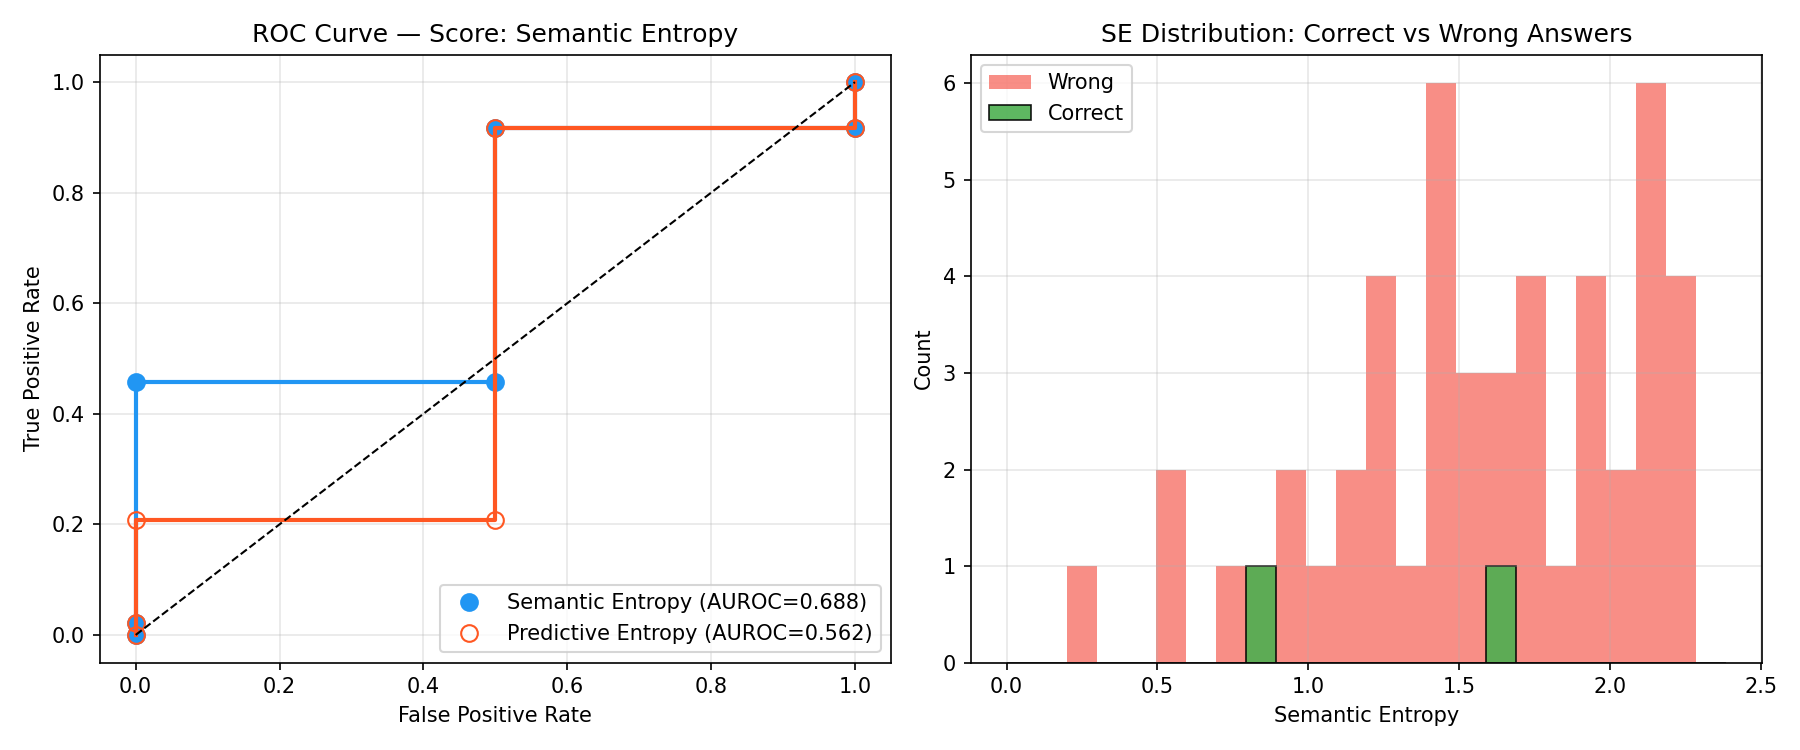
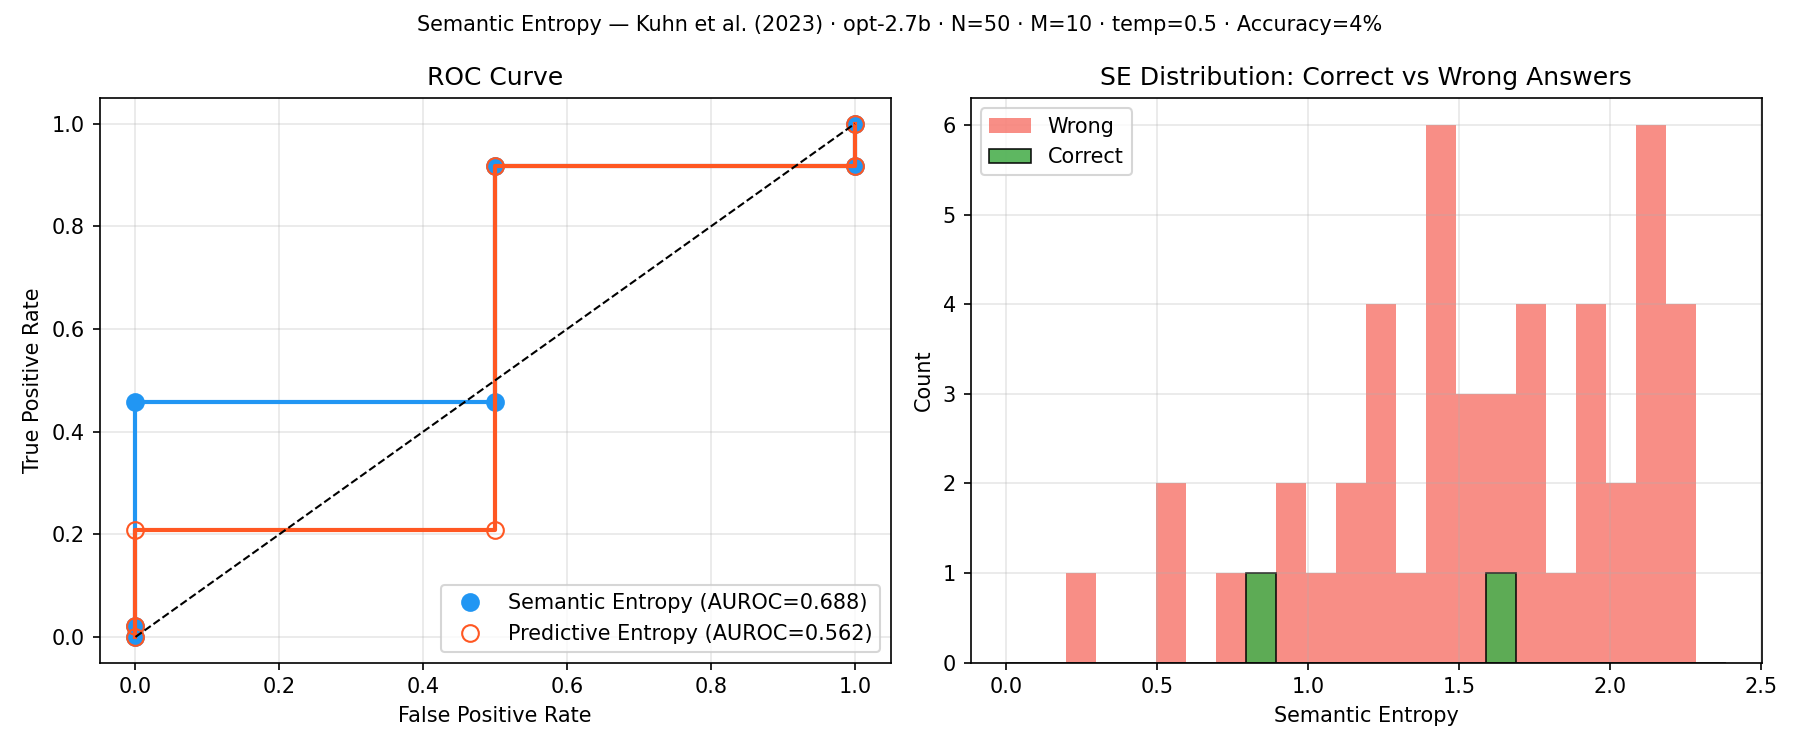
add Mistral ROC plots, fix plot labels

diff --git a/results.py b/results.py
@@ -68,7 +68,19 @@ def plot_auroc(data: dict, path: Path = Path("benchmark_results.json")) -> None:
         se_scores    = [r["semantic_entropy"]     for r in rows]
         pe_scores    = [r["predictive_entropy"]   for r in rows]
 
+        model_short = data["llm_model"].split("/")[-1]
+        n_q   = data["n_questions"]
+        n_s   = data["n_samples"]
+        temp  = data["temperature"]
+        acc   = data["accuracy"]
+
         fig, axes = plt.subplots(1, 2, figsize=(12, 5))
+        fig.suptitle(
+            f"Semantic Entropy — Kuhn et al. (2023) · "
+            f"{model_short} · N={n_q} · M={n_s} · "
+            f"temp={temp} · Accuracy={acc:.0%}",
+            fontsize=10,
+        )
 
         # ROC curves
         ax = axes[0]
@@ -83,7 +95,7 @@ def plot_auroc(data: dict, path: Path = Path("benchmark_results.json")) -> None:
         ax.plot([0, 1], [0, 1], "k--", lw=1)
         ax.set_xlabel("False Positive Rate")
         ax.set_ylabel("True Positive Rate")
-        ax.set_title("ROC Curve — Score: Semantic Entropy")
+        ax.set_title("ROC Curve")
         ax.legend(loc="lower right")
         ax.grid(alpha=0.3)
 
